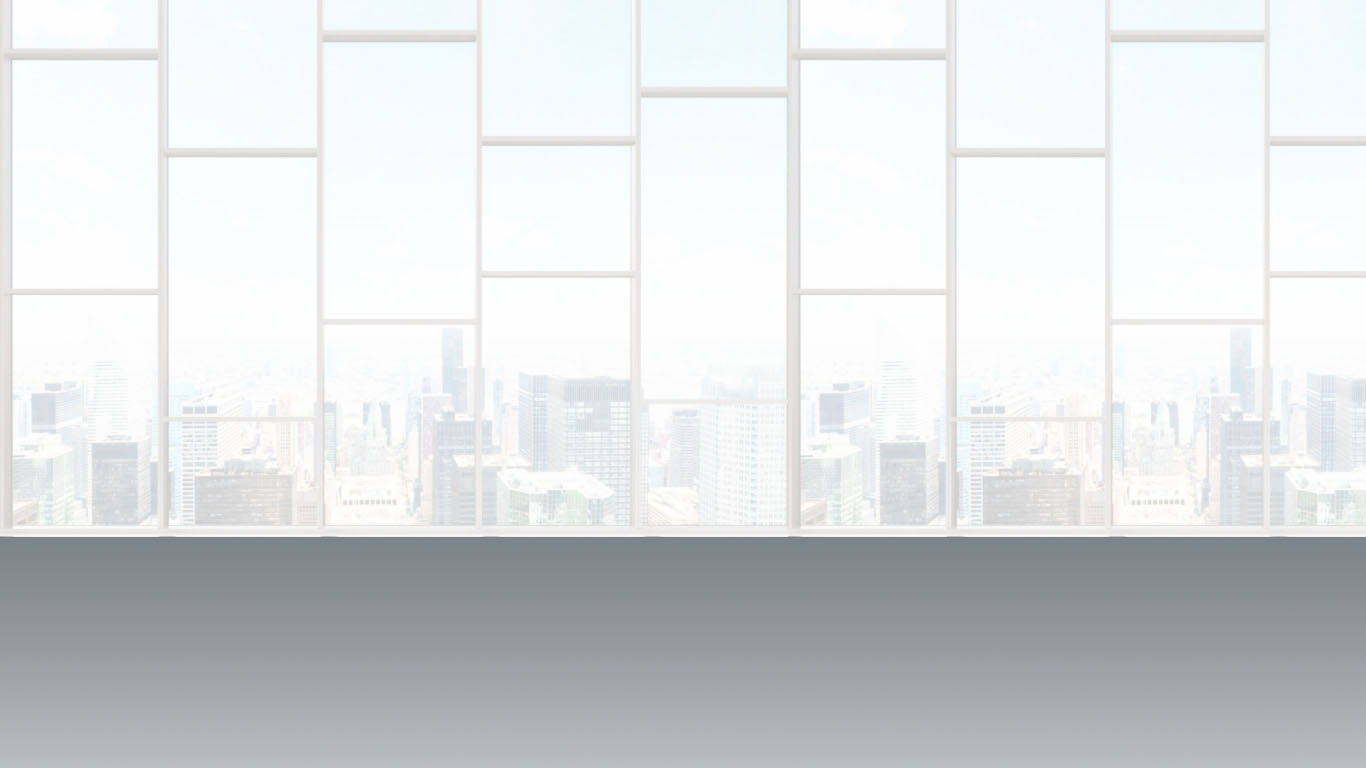
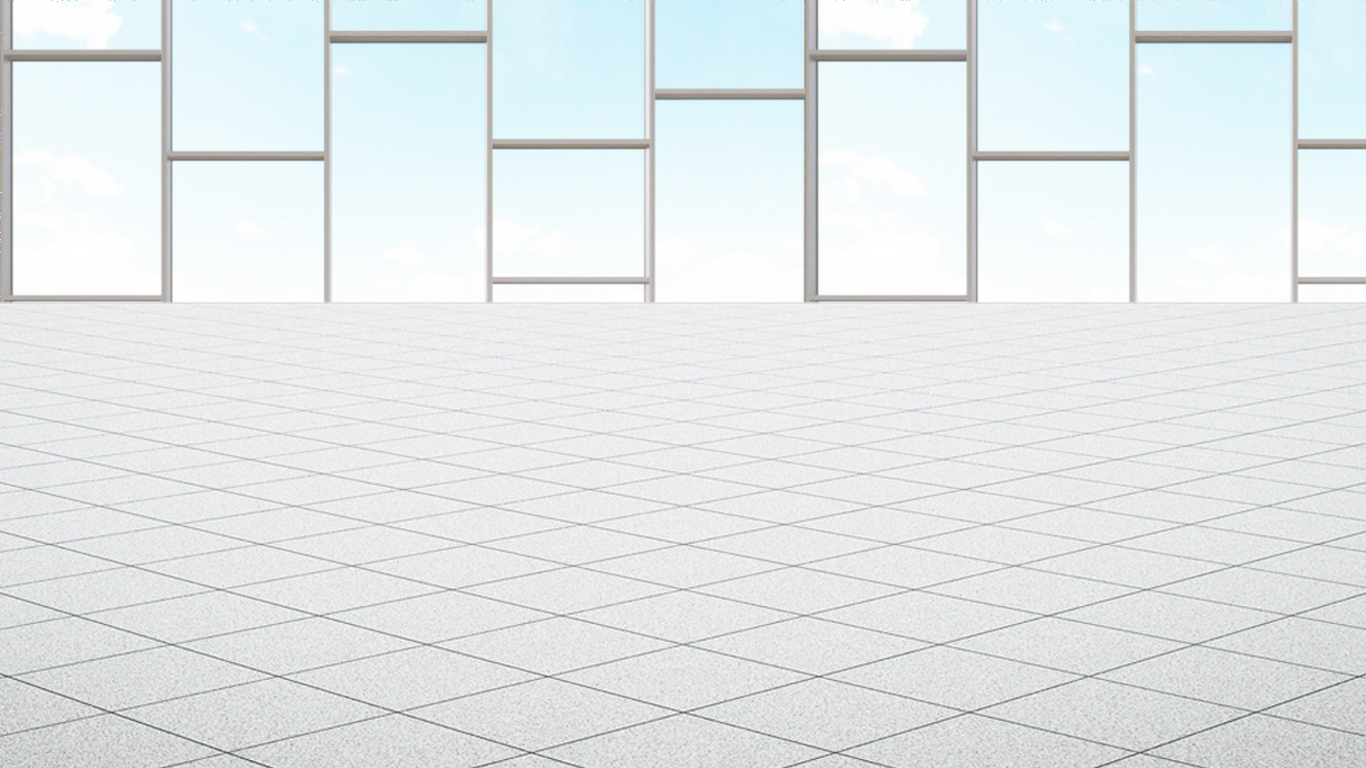
changes

diff --git a/live-event.html b/live-event.html
@@ -175,9 +175,6 @@
             </div>
         </div>
         <div class="tabcontent" id="single-stall">
-            <div class="stall-back">
-                <img src="assets/imgs/floor.png"/>
-            </div>
             <div class="stand">
                 <img src="assets/imgs/stand_background_3.png"/>
                 <div class="info-video">
@@ -237,6 +234,12 @@
                     <a href=""><img src="assets/imgs/download.svg"/>Download Brochure</a>
                     <a href=""><img src="assets/imgs/chat.svg"/>Send Message</a>
                     <a href=""><img src="assets/imgs/contact.svg"/>Get Contact</a>
+                </div>
+                <div class="contact-info">
+                    <a data-toggle="modal" data-target="#atendee-modal" class="cursor-pointer"><img src="assets/imgs/info-icon.svg"/></a>
+                </div>
+                <div class="stall-expo-info">
+                    <a data-toggle="modal" data-target="#atendee-modal" class="cursor-pointer"><img src="assets/imgs/info-icon.svg"/></a>
                 </div>
             </div>
             <div class="stall-backbutton">
@@ -359,7 +362,6 @@
                         <img src="assets/imgs/speaker.png"/>
                         <h3><span>Samuel johnson</span><p>Operation Manager at XYZ Comapany</p></h3>
                         <a href="">Chat</a>
-                        <a href="" data-toggle="modal" data-target="#atendee-modal">Meet</a>
                     </div>
                 </div>
                 <div class="col-xl-2">
@@ -367,7 +369,6 @@
                         <img src="assets/imgs/speaker.png"/>
                         <h3>Samuel johnson<p>Operation Manager at XYZ Comapany</p></h3>
                         <a href="">Chat</a>
-                        <a href="" data-toggle="modal" data-target="#atendee-modal">Meet</a>
                     </div>
                 </div>
                 <div class="col-xl-2">
@@ -375,7 +376,6 @@
                         <img src="assets/imgs/speaker.png"/>
                         <h3>Samuel johnson<p>Operation Manager at XYZ Comapany</p></h3>
                         <a href="">Chat</a>
-                        <a href="" data-toggle="modal" data-target="#atendee-modal">Meet</a>
                     </div>
                 </div>
                 <div class="col-xl-2">
@@ -383,7 +383,6 @@
                         <img src="assets/imgs/speaker.png"/>
                         <h3>Samuel johnson<p>Operation Manager at XYZ Comapany</p></h3>
                         <a href="">Chat</a>
-                        <a href="" data-toggle="modal" data-target="#atendee-modal">Meet</a>
                     </div>
                 </div>
                 <div class="col-xl-2">
@@ -391,7 +390,6 @@
                         <img src="assets/imgs/speaker.png"/>
                         <h3>Samuel johnson<p>Operation Manager at XYZ Comapany</p></h3>
                         <a href="">Chat</a>
-                        <a href="" data-toggle="modal" data-target="#atendee-modal">Meet</a>
                     </div>
                 </div>
                 <div class="col-xl-2">
@@ -399,7 +397,6 @@
                         <img src="assets/imgs/speaker.png"/>
                         <h3>Samuel johnson<p>Operation Manager at XYZ Comapany</p></h3>
                         <a href="">Chat</a>
-                        <a href="" data-toggle="modal" data-target="#atendee-modal">Meet</a>
                     </div>
                 </div>
                 <div class="col-xl-2">
@@ -407,7 +404,6 @@
                         <img src="assets/imgs/speaker.png"/>
                         <h3>Samuel johnson<p>Operation Manager at XYZ Comapany</p></h3>
                         <a href="">Chat</a>
-                        <a href="" data-toggle="modal" data-target="#atendee-modal">Meet</a>
                     </div>
                 </div>
                 <div class="col-xl-2">
@@ -415,7 +411,6 @@
                         <img src="assets/imgs/speaker.png"/>
                         <h3>Samuel johnson<p>Operation Manager at XYZ Comapany</p></h3>
                         <a href="">Chat</a>
-                        <a href="" data-toggle="modal" data-target="#atendee-modal">Meet</a>
                     </div>
                 </div>
                 <div class="col-xl-2">
@@ -423,7 +418,6 @@
                         <img src="assets/imgs/speaker.png"/>
                         <h3>Samuel johnson<p>Operation Manager at XYZ Comapany</p></h3>
                         <a href="">Chat</a>
-                        <a href="" data-toggle="modal" data-target="#atendee-modal">Meet</a>
                     </div>
                 </div>
                 <div class="col-xl-2">
@@ -431,7 +425,6 @@
                         <img src="assets/imgs/speaker.png"/>
                         <h3>Samuel johnson<p>Operation Manager at XYZ Comapany</p></h3>
                         <a href="">Chat</a>
-                        <a href="" data-toggle="modal" data-target="#atendee-modal">Meet</a>
                     </div>
                 </div>
                 <div class="col-xl-2">
@@ -439,7 +432,6 @@
                         <img src="assets/imgs/speaker.png"/>
                         <h3>Samuel johnson<p>Operation Manager at XYZ Comapany</p></h3>
                         <a href="">Chat</a>
-                        <a href="" data-toggle="modal" data-target="#atendee-modal">Meet</a>
                     </div>
                 </div>
                 <div class="col-xl-2">
@@ -447,7 +439,6 @@
                         <img src="assets/imgs/speaker.png"/>
                         <h3>Samuel johnson<p>Operation Manager at XYZ Comapany</p></h3>
                         <a href="">Chat</a>
-                        <a href="" data-toggle="modal" data-target="#atendee-modal">Meet</a>
                     </div>
                 </div>
             </div>
@@ -840,8 +831,8 @@
                         <h3 class="float-left">Fireside chat on Deep tech<br> <span> Despription</span></h3>
                         <hr/>
                         <p class="text-left">Speakers</p>
-                        <img src="assets/imgs/speaker.png"/>
-                        <img src="assets/imgs/speaker.png"/>
+                        <img src="assets/imgs/speaker.png" data-toggle="tooltip" title="A small tooltip" class="speaker-tooltip"/>
+                        <img src="assets/imgs/speaker.png" data-toggle="tooltip" title="A small tooltip" class="speaker-tooltip"/>
                         <a class="btn theme-btn float-right" href="#">Join Session</a>
                     </div>
                     <div class="theme-card agenda-card">
@@ -849,8 +840,8 @@
                         <h3 class="float-left">Fireside chat on Deep tech<br><span> Despription</span></h3>
                         <hr/>
                         <p class="text-left">Speakers</p>
-                        <img src="assets/imgs/speaker.png"/>
-                        <img src="assets/imgs/speaker.png"/>
+                        <img src="assets/imgs/speaker.png" data-toggle="tooltip" title="A small tooltip" class="speaker-tooltip"/>
+                        <img src="assets/imgs/speaker.png" data-toggle="tooltip" title="A small tooltip" class="speaker-tooltip"/>
                         <a class="btn theme-btn float-right" href="#">Join Session</a>
                     </div>
                 </div>
@@ -861,8 +852,6 @@
                 <div class="header">
                     <a onclick="chatList()" class="float-left"><img src="assets/imgs/back-icon.svg" class="w-100"/></a>
                     <h3 class="float-left">John Doe</h3>
-                    <a class="float-right"><img src="assets/imgs/video-icon.svg"/></a>
-                    <a data-toggle="modal" data-target="#atendee-modal" class="float-right mr-3"><img src="assets/imgs/info-icon.svg"/></a>
                     <hr class="float-left w-100"/>
                 </div>
                 <div class="chat-box bg-white">
@@ -925,8 +914,8 @@
                     <div class="input-group">
                         <input type="text" placeholder="Type a message" aria-describedby="button-addon2" class="form-control rounded-0 border-0 bg-light py-4">
                         <div class="input-group-append">
-                            <button id="button-addon2" type="submit" class="btn btn-link"> 
-                                <i class="fa fa-paper-plane"></i>
+                            <button id="button-addon2" type="submit" class="btn btn-link">
+                                <img src="assets/imgs/send-icon.svg"/> 
                             </button>
                         </div>
                     </div>
@@ -1019,8 +1008,7 @@
                     <p class="text-left">CEO - M&X  Ltd.</p>
                 </div>
                 <div class="about-speaker col-xl-5 mt-4">
-                    <button type="button" class="btn theme-btn">Request Contact</button>
-                    <button type="button" class="btn theme-btn mt-4">Request Video meet</button>
+                    <button type="button" class="btn theme-btn">Chat</button>
                 </div>
             </div>
         </div>
@@ -1223,6 +1211,15 @@ function hideDetails() {
   $('.speaker-details').removeClass('elementToFadeIn');
      $('.speaker-details').addClass('elementToFadeOut');
 }
+
+$('#example').click(function(){
+ $('#example').popover('show');
+});
+$(document).ready(function(){
+$(".speaker-tooltop").tooltip({
+        delay: {show: 0, hide: 2000}
+    });
+});
 
 </script>
     </body>

diff --git a/assets/font/stylesheet.css b/assets/font/stylesheet.css
@@ -228,3 +228,23 @@
 #networking-modal iframe {
     height: 490px;
 }
+
+.contact-info img {
+    max-width: 20px;
+}
+
+.contact-info {
+    position: absolute;
+    top: 338px;
+    left: 378px;
+}
+
+.stall-expo-info img {
+    max-width: 20px;
+}
+
+.stall-expo-info {
+    position: absolute;
+    top: 348px;
+    left: 574px;
+}

diff --git a/starter-template.css b/starter-template.css
@@ -945,7 +945,7 @@ ul.sm-logo li {
     font-size: 14px;
     color: #1781F1;
     display: block;
-    width: 49%;
+    width: 100%;
     float: left;
 }
 
